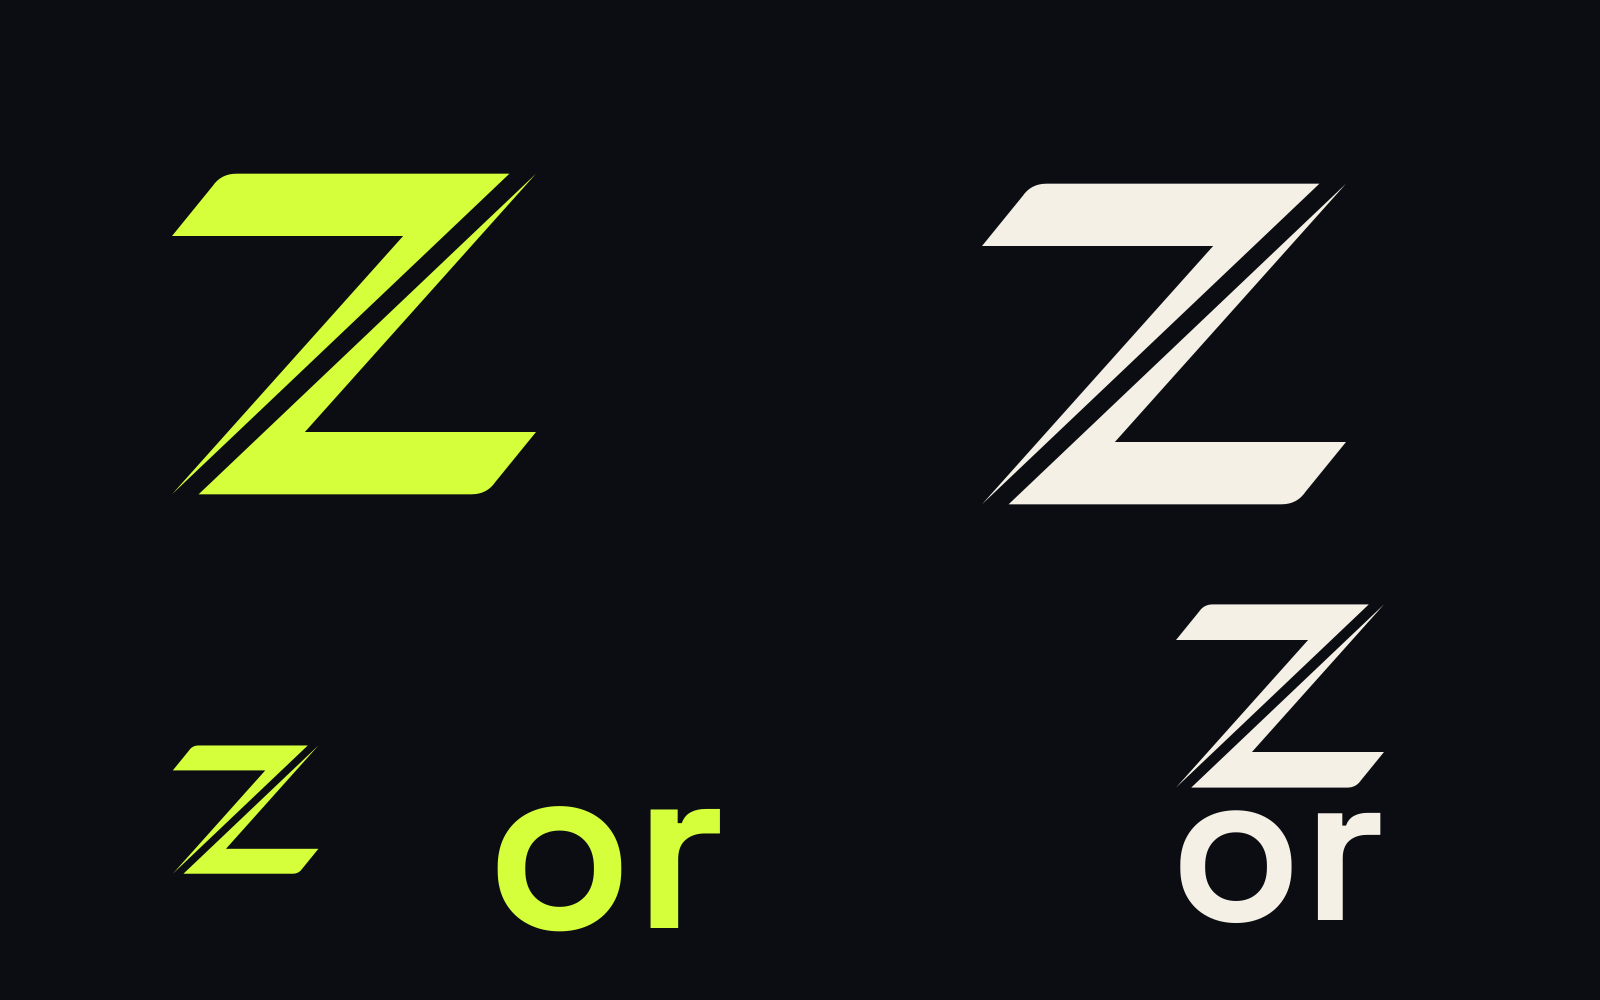
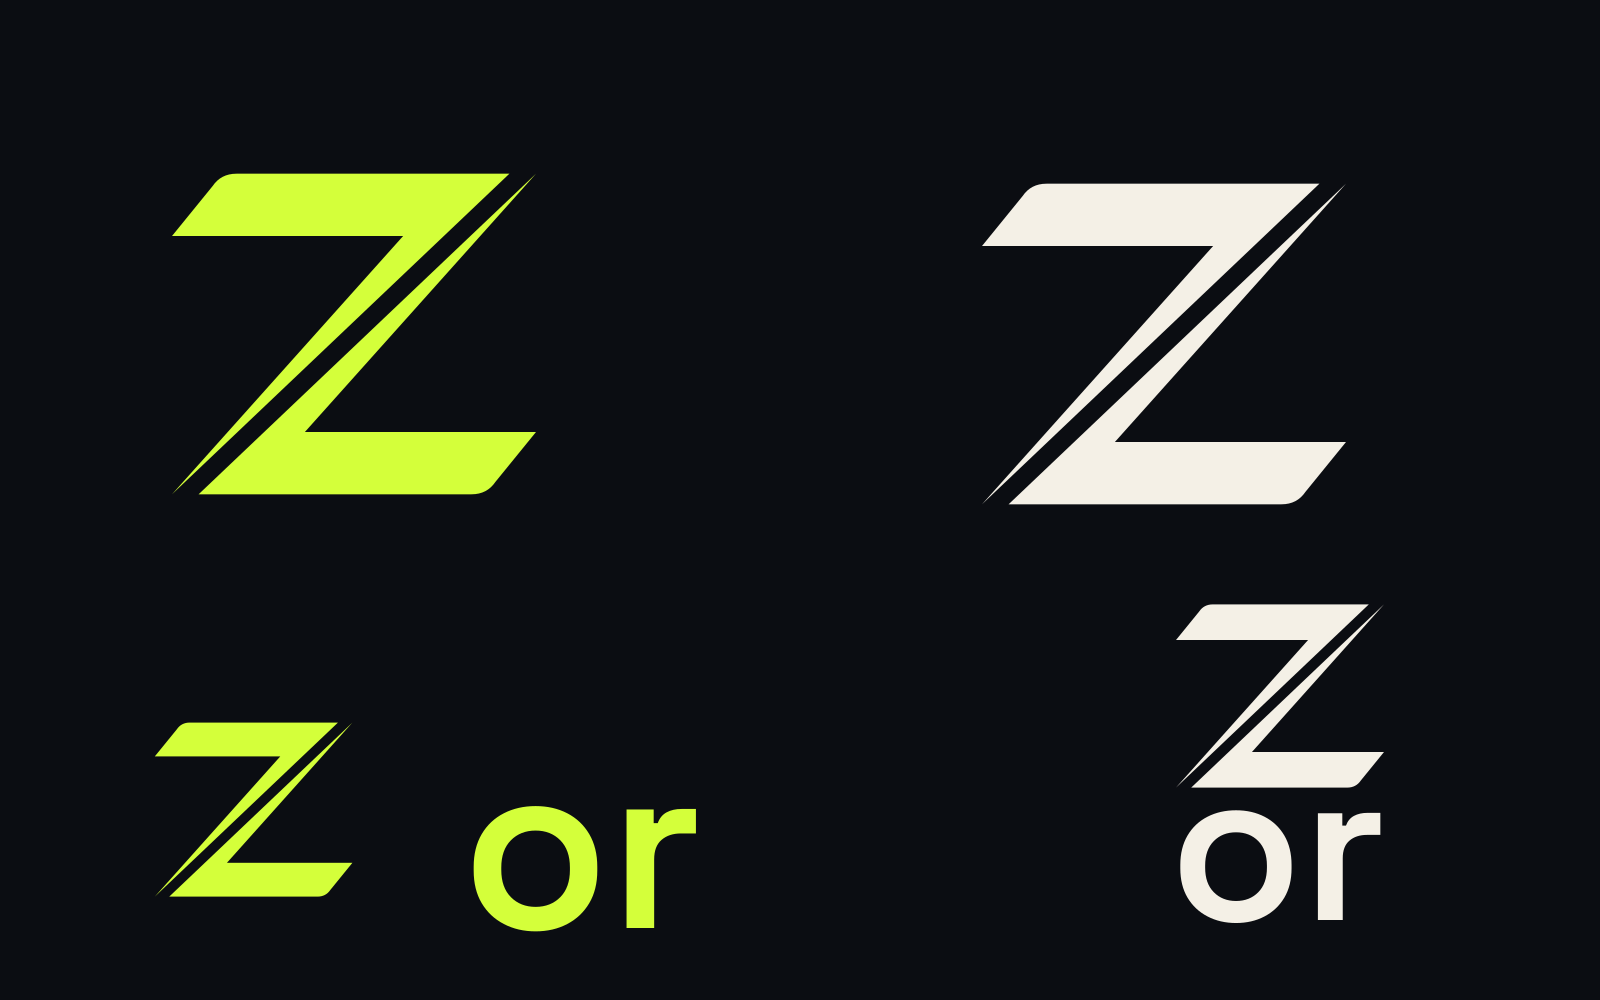
feat(mobile): drop redundant IronPulse wordmark on login and scale Zor mark
The FloatingLogo on the login screen is the full Zor lockup; the
adjacent "IronPulse" Text block was left over from the legacy hero and
duplicated the branding while also displaying the pre-rebrand name.
Remove it. Scale the mark component of the horizontal lockup to .95 so
it reads as the initial capital of "or" rather than a small mark
appended to the wordmark. Widen viewBox to 160x64 and update mobile
Logo aspect ratio.

Changed region(s): [[0.2812, 0.806, 0.4688, 0.93], [0.0938, 0.713, 0.2188, 0.899]]

diff --git a/apps/mobile/components/ui/logo-xml.ts b/apps/mobile/components/ui/logo-xml.ts
@@ -1,4 +1,4 @@
-export const LOGO_XML = `<svg xmlns="http://www.w3.org/2000/svg" viewBox="0 0 150 64">
-  <path fill="#D4FF3A" transform="translate(4 10) scale(.7)" d="M6 54.9L39.02 18L6 18L11.8 10.87Q13 9.1 15.2 9.1L54.2 9.1L6 54.9Z M9.8 54.9L58 9.1L24.98 46L58 46L52.2 53.13Q51 54.9 48.8 54.9L9.8 54.9Z"/>
-  <path fill="#D4FF3A" transform="translate(56 2) scale(2)" d="M24.45 30.42L24.45 30.42Q22.23 30.42 20.48 29.50Q18.72 28.59 17.71 26.89Q16.71 25.20 16.71 22.83L16.71 22.83L16.71 22.35Q16.71 19.98 17.71 18.27Q18.72 16.56 20.48 15.66Q22.23 14.76 24.45 14.76L24.45 14.76Q26.67 14.76 28.41 15.66Q30.15 16.56 31.16 18.27Q32.16 19.98 32.16 22.35L32.16 22.35L32.16 22.83Q32.16 25.20 31.16 26.89Q30.15 28.59 28.41 29.50Q26.67 30.42 24.45 30.42ZM24.45 27.36L24.45 27.36Q26.34 27.36 27.54 26.14Q28.74 24.93 28.74 22.74L28.74 22.74L28.74 22.44Q28.74 20.25 27.54 19.04Q26.34 17.82 24.45 17.82L24.45 17.82Q22.56 17.82 21.36 19.04Q20.16 20.25 20.16 22.44L20.16 22.44L20.16 22.74Q20.16 24.93 21.36 26.14Q22.56 27.36 24.45 27.36ZM39.27 30L35.82 30L35.82 15.18L39.21 15.18L39.21 16.89L39.72 16.89Q40.05 15.96 40.83 15.54Q41.61 15.12 42.69 15.12L42.69 15.12L44.49 15.12L44.49 18.18L42.63 18.18Q41.13 18.18 40.20 18.98Q39.27 19.77 39.27 21.42L39.27 21.42L39.27 30Z"/>
+export const LOGO_XML = `<svg xmlns="http://www.w3.org/2000/svg" viewBox="0 0 160 64">
+  <path fill="#D4FF3A" transform="translate(-2 2) scale(.95)" d="M6 54.9L39.02 18L6 18L11.8 10.87Q13 9.1 15.2 9.1L54.2 9.1L6 54.9Z M9.8 54.9L58 9.1L24.98 46L58 46L52.2 53.13Q51 54.9 48.8 54.9L9.8 54.9Z"/>
+  <path fill="#D4FF3A" transform="translate(50 2) scale(2)" d="M24.45 30.42L24.45 30.42Q22.23 30.42 20.48 29.50Q18.72 28.59 17.71 26.89Q16.71 25.20 16.71 22.83L16.71 22.83L16.71 22.35Q16.71 19.98 17.71 18.27Q18.72 16.56 20.48 15.66Q22.23 14.76 24.45 14.76L24.45 14.76Q26.67 14.76 28.41 15.66Q30.15 16.56 31.16 18.27Q32.16 19.98 32.16 22.35L32.16 22.35L32.16 22.83Q32.16 25.20 31.16 26.89Q30.15 28.59 28.41 29.50Q26.67 30.42 24.45 30.42ZM24.45 27.36L24.45 27.36Q26.34 27.36 27.54 26.14Q28.74 24.93 28.74 22.74L28.74 22.74L28.74 22.44Q28.74 20.25 27.54 19.04Q26.34 17.82 24.45 17.82L24.45 17.82Q22.56 17.82 21.36 19.04Q20.16 20.25 20.16 22.44L20.16 22.44L20.16 22.74Q20.16 24.93 21.36 26.14Q22.56 27.36 24.45 27.36ZM39.27 30L35.82 30L35.82 15.18L39.21 15.18L39.21 16.89L39.72 16.89Q40.05 15.96 40.83 15.54Q41.61 15.12 42.69 15.12L42.69 15.12L44.49 15.12L44.49 18.18L42.63 18.18Q41.13 18.18 40.20 18.98Q39.27 19.77 39.27 21.42L39.27 21.42L39.27 30Z"/>
 </svg>`;

diff --git a/apps/mobile/app/(auth)/login.tsx b/apps/mobile/app/(auth)/login.tsx
@@ -200,19 +200,6 @@ export default function LoginScreen() {
           {/* Hero logo — gently floats on a 3s cycle so it reads as a
               confident, breathing brand mark rather than a static PNG. */}
           <FloatingLogo />
-
-
-          <Text
-            style={{
-              fontFamily: fonts.displayBold,
-              fontSize: 38,
-              letterSpacing: -1.3,
-              lineHeight: 40,
-              color: colors.text,
-            }}
-          >
-            Iron<Text style={{ color: colors.blue }}>Pulse</Text>
-          </Text>
           <Text
             style={{
               color: colors.text3,

diff --git a/apps/mobile/components/ui/logo.tsx b/apps/mobile/components/ui/logo.tsx
@@ -2,7 +2,7 @@ import { View, type ViewStyle, type StyleProp } from "react-native";
 import { SvgXml } from "react-native-svg";
 import { LOGO_XML } from "./logo-xml";
 
-const ASPECT = 150 / 64;
+const ASPECT = 160 / 64;
 
 interface LogoProps {
   /** Height in dp. Width scales from the logo's natural 487:215 aspect. */
